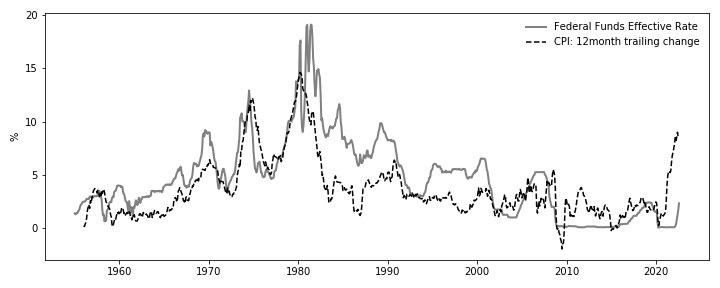
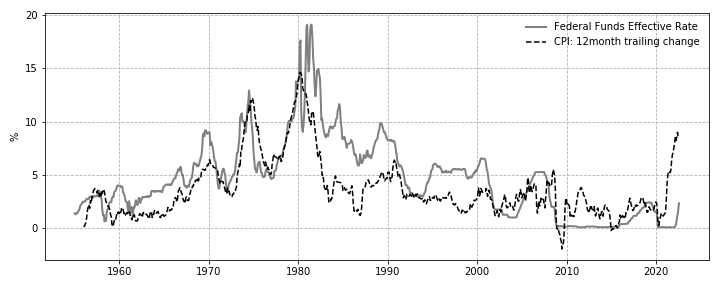
add charts

diff --git a/_posts/2022-09-10-The_Fabulous_Decade.md b/_posts/2022-09-10-The_Fabulous_Decade.md
@@ -20,7 +20,7 @@ use_math: True
 
 <b>[그림] Economic Performance: 1960 ~ 2010</b>
 
-<img src="/assets/images/GDP, Unemploy, Inflation.png" width="75%" height="75%" title="Economic Performance"/>
+<img src="/assets/images/GDP, Unemploy, Inflation.png" width="100%" height="100%" title="Economic Performance"/>
 
 <br>
 
@@ -203,7 +203,7 @@ use_math: True
 
 <b>[그림] The Federal Funds Rate and CPI Inflation</b>
 
-<img src="/assets/images/FFR, CPI.png" width="75%" height="75%" title="The Federal Fnds Rate and CPI Inflation"/>
+<img src="/assets/images/FFR, CPI.png" width="100%" height="100%" title="The Federal Fnds Rate and CPI Inflation"/>
 
 <span style="color:blue">2000년 이전에 연준의 기준금리는 소비자물가의 전년비 상승률보다 높은 것이 일반적이었다. </span>
 
@@ -227,7 +227,7 @@ use_math: True
 
 <b>[그림] The Federal Funds Target Rate, 1994~2000</b>
 
-<img src="/assets/images/Federal Funds Target Rate.png" width="75%" height="75%" title="Federal Funds Target Rate"/>
+<img src="/assets/images/Federal Funds Target Rate.png" width="100%" height="100%" title="Federal Funds Target Rate"/>
 
 연준의 기준 금리 사이클은 1995년 1월 31일부터 2월 1일까지 진행된 FOMC 미팅에서 50bp 인상으로 마무리 되었다. 이 당시 경제는 둔화되는 조짐이 나타나기 시작했다. 미국 수출은 멕시코 금융 위기([Mexican peso crisis](https://en.wikipedia.org/wiki/Mexican_peso_crisis))의 여파로 쇠퇴하기 시작했다. 경착륙 우려가 증가하였으나 금융 시장은 여전히 더 긴축을 요구하고 있었다. 그린스펀은 "우리가 보아온 이 균열이 계쏙 된다면 또 다른 긴축 정책이 있을 것이라는 것은 결코 분명하지 않다"고 지적했다.
 
@@ -241,29 +241,25 @@ use_math: True
 
 ### Chapter 6. The Fed Forbears and the Phillips Curve Cooporates
 
-미국 경제는 1996년부터 수년간 양호한 수준을 유지했다. 실업률은 NAIRU가 1999년까지 5.5%~6.0% 사이로 안정적으로 떨어졌다는 대중적 견해가 거짓임을 말해줬다. 미국의 1999년 12월 실업률은 4.1%였으며 이는 29년래 가장 낮은 수준이었다. 실질 GDP 성장률의 평균은 1996년부터 1999년까지 평균 4.5% 성장했으며, 이는 잠재성장률을 상회하는 수준이었다. 
+미국 경제는 1996년부터 수년간 양호한 수준을 유지했다. 실업률은 NAIRU가 1999년까지 5.5%~6.0% 사이로 안정적으로 떨어졌다는 대중적 견해가 거짓임을 말해줬다. 미국의 1999년 12월 실업률은 4.1%였으며 이는 29년래 가장 낮은 수준이었다. 1998년 금융 위기에 대응한 변화를 제외하고 1996년 초부터 1999년 여름까지 연준의 통화정책을 한 단어로 설명하자면 "인내(forberance)"이다. 
 
-1998년 금융 위기에 대응한 변화를 제외하고 1996년 초부터 1999년 여름까지 연준의 통화정책을 한 단어로 설명하자면 "인내(forberance)"이다. 실제 해당 기간에 인플레이션이 오르지 않았기 때문에 기준금리를 올리지 않을 수 있었다.
+<b>[그림] NAIRU, Unemployment Rate and Federal Funds Rates</b>
 
-<b>[표] Measures of Consumer Price Inflation</b>
+<img src="/assets/images/NAIRU, Unemployment Rate.png" width="100%" height="100%" title="NAIRU, Unemployment Rate"/>
 
-CPI-U, PCE, CPI-U-RS,
-
-Core CPI-U, Core PCE, Core CPI-U-RS
+실질 GDP 성장률의 평균은 1996년부터 1999년까지 평균 4.5% 성장했으며, 이는 잠재성장률을 상회하는 수준이었다. 그러나 해당 기간에 인플레이션이 부재했기 때문에 기준금리를 인상하지 않을 수 있었다.
 
 <br>
 
 실업률이 매우 낮았음에도핵심 소비자 물가가 상승하지 않은 점은 FOMC 위원들과 많은 경제학자들, 백악관, 미국 의회 예산처(Congressional Budget Office, CBO) 등을 놀라게 했다.
 
-<b>[그림] Unemployment and the Change in CPI Inflation</b>
+<b>[그림] Unemployment and the Change in CPI Inflation, 1960-99</b>
 
-x-axis: Civilian unemployment rate
+<img src="/assets/images/REGRESSION_Unemployment rate, CPI.png" width="100%" height="100%" title="Regression: Unemployment Rate & CPI Inflation, Unemployment Rate"/>
 
-y-axis: Change in CPI inflation rate
+1997년과 1998년에는 실업률과 비교해 유난히 물가가 낮았다. 
 
 <br>
-
-1997년과 1998년에는 유난히 물가가 낮았다. 
 
 #### Surprisingly Moderate Wage Inflation
 
@@ -301,7 +297,7 @@ Real broad exchange rate index, Nonpetroleum import prices chain-weighted index
 
 1996년 4분기부터 1999년 1분기까지 유가가 반토막 나며 핵심 소비자물가도 생산자 단가 하락으로 낮아졌다. 수입가격과 유가 하락으로 노동자들의 더 많은 급여에 대한 필요성이 낮아지며 임금 상승을 방해하는 요인으로 작용했다.
 
-<b>[그림] Daily Price of West Texas Intermediate Oil</b>
+<b>[그림] Daily Price of West Texas Intermediate(WTI) Oil</b>
 
 <br>
 
